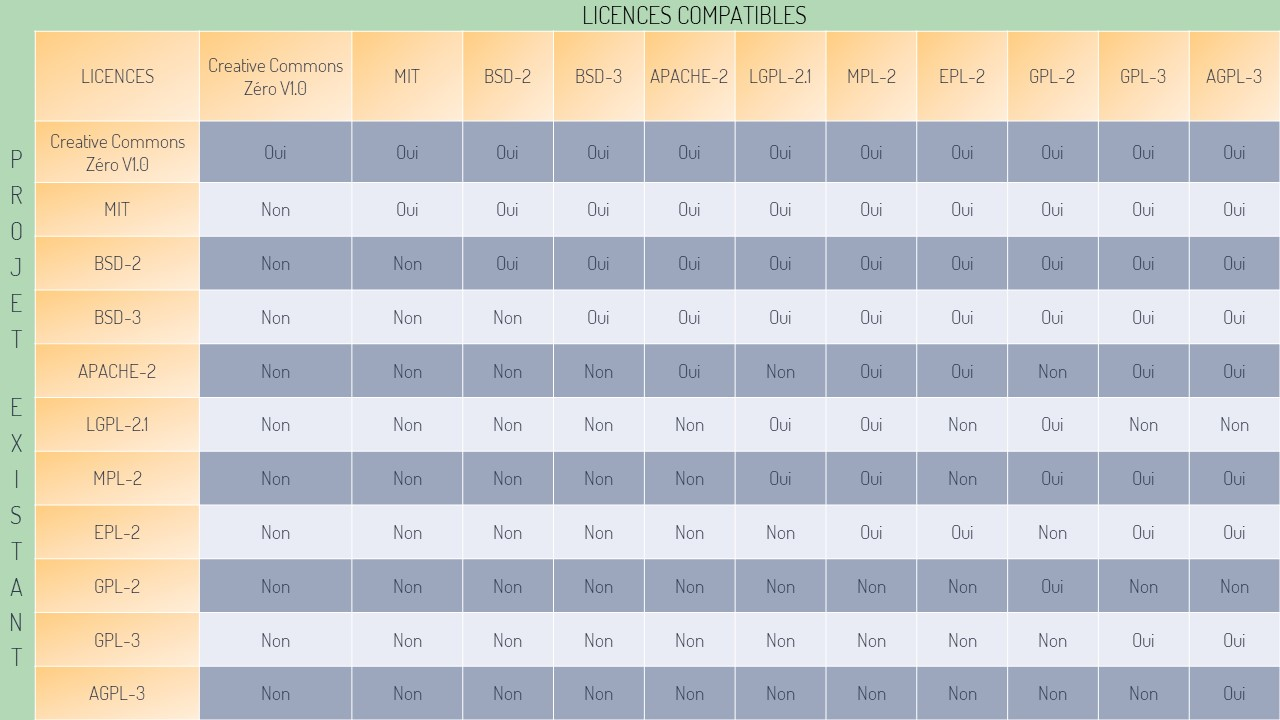
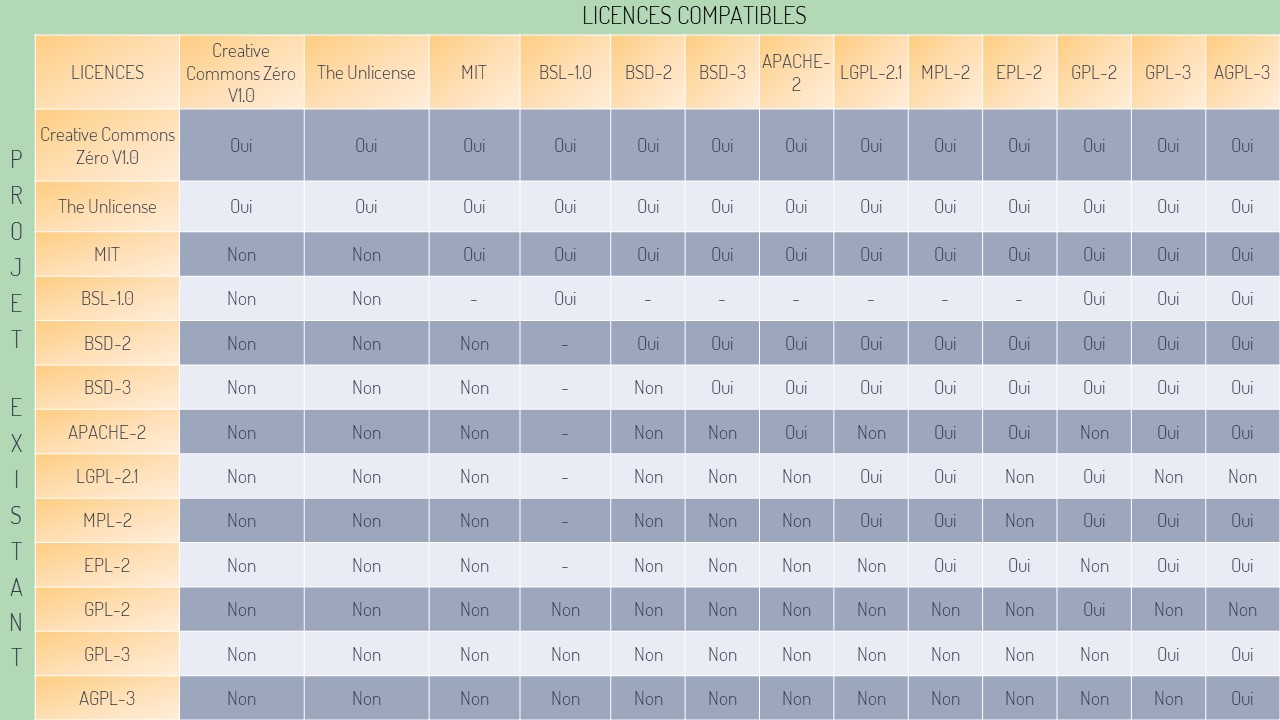
add comabtibility table

diff --git a/index.html b/index.html
@@ -20,8 +20,7 @@
     <nav class="navbar navbar-light bg-light">
         <div class="container-fluid">
             <a class="navbar-brand" href="index.html">
-                <img src="assets/images/nevinator-logo1.png" alt="" width="300" height="90"></a>
-                
+                <img src="assets/images/nevinator-logo1.png" alt="" width="300" height="90"></a>               
         </div>
     </nav>
 </header>
@@ -42,8 +41,10 @@
                         <strong>Vous voulez choisir "None" ? C'est votre choix, mais attention lisez bien ce qui suit :<br><br></strong>
                         lorsque vous réalisez une œuvre créative (ce qui inclut le code), cette œuvre est soumise par défaut à un droit d'auteur exclusif.<br>
                         À moins que vous choisissiez une licence spécifiant le contraire, personne d'autre ne peut copier, distribuer ou modifier votre travail sans que vous soyez victime d'un vol, d'un détournement ou d'un litige.<br>
-                        Interdire l'utilisation de votre code n'est peut-être pas ce que vous entendez par "none". Une licence open source permet la réutilisation de votre code tout en conservant les droits d'auteur. Si votre objectif est de vous affranchir complètement des restrictions de droits d'auteur, essayez plutôt une licence Créative Commons.
-                        </p><br>
+                        Interdire l'utilisation de votre code n'est peut-être pas ce que vous entendez par "none". Une licence open source permet la réutilisation de votre code tout en conservant les droits d'auteur. Si votre objectif est de vous affranchir complètement des restrictions de droits d'auteur, essayez plutôt une licence Créative Commons.<br><br>
+                        Les informations que vous trouverez 
+                        </p>
+                        
                     <div class="bouton col-8 text-center">
                     <a href="pages/debutquestionnaire.html" class="btn btn-primary mb-5">Accédez au questionnaire</a>
                     </div>
@@ -51,7 +52,7 @@
             </div>
         </div>
     </div>
-</div>
+</main>
 
 
     <script src="https://cdn.jsdelivr.net/npm/bootstrap@5.0.0-beta1/dist/js/bootstrap.bundle.min.js"

diff --git a/pages/compatibility.html b/pages/compatibility.html
@@ -31,11 +31,11 @@
         <div class="col-md-8 col-sm-12">
             <div class="card">
                 <div class="card-body">
-                    <h1 class="card-title mt-5"><strong>Vérifiez la compatibilité</strong></h1>
+                    <h1 class="card-title mt-5"><strong>Vérifiez la compatibilité</strong></h1><br>
                     <p>Vous travaillez sur un projet existant et vous ne savez pas quelle licence peut être compatible avec celle que vous envisagez ?<br>
                         Ce tableau pourra vous aider afin de déterminer quelles licences sont compatible entres elles.
                     </p>
-                    <img src="" alt="">
+                    <img src="../assets/images/tableau-compatibilite.jpg" alt="Tcleau de compatibilité des licences entres-elles">
                     <div class="col-12 justify-content-center">
                         <a href="debutquestionnaire.html" class="btn btnrestart btn-primary" title="Recommencer"><i class="fas fa-redo-alt"></i></a>
                         <a href="choixprojet.html" class="btn btnrestart btn-primary" title="Retour"><i class="fas fa-arrow-circle-left"></i></a>
@@ -45,7 +45,7 @@
             </div>
         </div>
     </div>
-</div>
+</main>
 
 
 

diff --git a/pages/choixprojet.html b/pages/choixprojet.html
@@ -19,7 +19,7 @@
     <nav class="navbar navbar-light bg-light">
         <div class="container-fluid">
             <a class="navbar-brand" href="../index.html">
-                <img src="../assets/images/nevinator-logo1.png" alt="" width="300" height="90git">
+                <img src="../assets/images/nevinator-logo1.png" alt="" width="300" height="90">
             </a>
         </div>
     </nav>
@@ -44,7 +44,7 @@
             </div>
         </div>
     </div>
-</div>
+</main>
 
 
 
